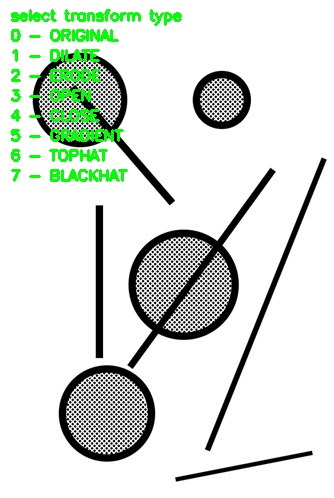
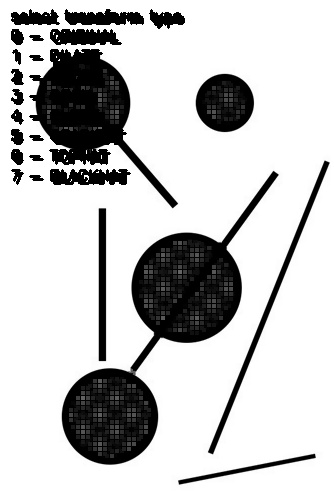
f

diff --git a/lab4.py b/lab4.py
@@ -10,19 +10,19 @@ def morphologyTransform(picture, kernel, iter4tions, conversionType):
     if conversionType == 0:
         pictureMorphologyTransform = picture
     elif conversionType == 1:
-        pictureMorphologyTransform = cv2.dilate(picture, kernel, iterations=iter4tions)
+        pictureMorphologyTransform = cv2.dilate(picture, kernel, iterations=iter4tions) # "приклеивание" к белым областям белых областей
     elif conversionType == 2:
-        pictureMorphologyTransform = cv2.erode(picture, kernel, iterations=iter4tions)
+        pictureMorphologyTransform = cv2.erode(picture, kernel, iterations=iter4tions) # "стирание" белых областей к черным
     elif conversionType == 3:
-        pictureMorphologyTransform = cv2.morphologyEx(picture, cv2.MORPH_OPEN, kernel, iterations=iter4tions)
+        pictureMorphologyTransform = cv2.morphologyEx(picture, cv2.MORPH_OPEN, kernel, iterations=iter4tions) # сначала применяется эрозия, потом наращивание; если итераций несколько, они повторяются по кругу
     elif conversionType == 4:
-        pictureMorphologyTransform = cv2.morphologyEx(picture, cv2.MORPH_CLOSE, kernel, iterations=iter4tions)
+        pictureMorphologyTransform = cv2.morphologyEx(picture, cv2.MORPH_CLOSE, kernel, iterations=iter4tions) # сначала наращивание, потом эрозия; аналогично при повторении
     elif conversionType == 5:
-        pictureMorphologyTransform = cv2.morphologyEx(picture, cv2.MORPH_GRADIENT, kernel, iterations=iter4tions)
+        pictureMorphologyTransform = cv2.morphologyEx(picture, cv2.MORPH_GRADIENT, kernel, iterations=iter4tions) # разность между результатом наращивания и результатом эрозии
     elif conversionType == 6:
-        pictureMorphologyTransform = cv2.morphologyEx(picture, cv2.MORPH_TOPHAT, kernel, iterations=iter4tions)
+        pictureMorphologyTransform = cv2.morphologyEx(picture, cv2.MORPH_TOPHAT, kernel, iterations=iter4tions) # из исходного изображения вычитается его размыкание
     elif conversionType == 7:
-        pictureMorphologyTransform = cv2.morphologyEx(picture, cv2.MORPH_BLACKHAT, kernel, iterations=iter4tions)
+        pictureMorphologyTransform = cv2.morphologyEx(picture, cv2.MORPH_BLACKHAT, kernel, iterations=iter4tions) # из замыкания вычитается само изображение
 
     return pictureMorphologyTransform
 
@@ -34,7 +34,7 @@ def createTrackbar():
     cv2.moveWindow("conversion parameter", 0, 800)
     cv2.resizeWindow("conversion parameter", 500, 50)
 
-picture = cv2.imread('lr4/picture.jpg')
+picture = cv2.imread('lr4/picture.jpg', cv2.IMREAD_GRAYSCALE)
 
 # video = cv2.VideoCapture('lr2/23.mov')
 

diff --git a/lab1.py b/lab1.py
@@ -34,7 +34,7 @@ cv2.destroyAllWindows()
 #задание 1 ВАРИАНТ 2
 
 # пункт 1
-me = cv2.imread('lr1/me.jpg', flags = cv2.IMREAD_REDUCED_COLOR_4 )
+me = cv2.imread('lr1/me.jpg', flags = cv2.IMREAD_REDUCED_COLOR_4)
 cv2.imshow('me', me)
 cv2.waitKey(1000)
 cv2.destroyAllWindows()
